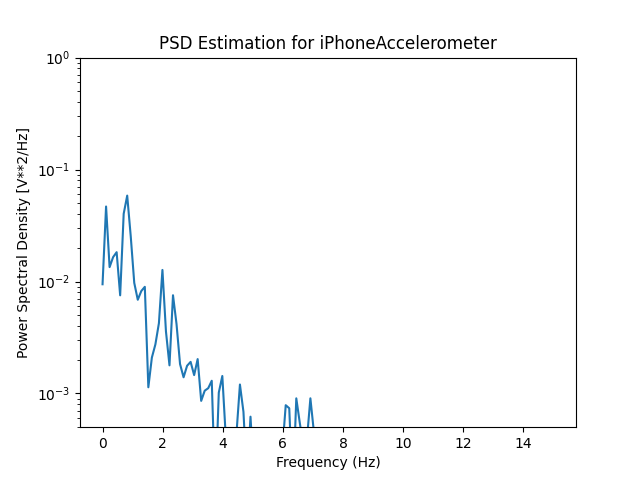
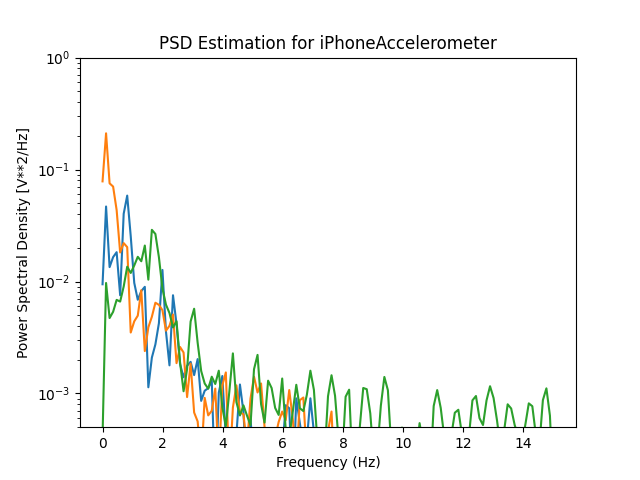
user velocity graphs and code ready for report

Changed region(s): [[0.1562, 0.4688, 0.625, 0.9062], [0.6562, 0.8125, 0.875, 0.9062], [0.1562, 0.2812, 0.1875, 0.5]]

diff --git a/dev/velocity_estimation/user_velocity.py b/dev/velocity_estimation/user_velocity.py
@@ -36,21 +36,24 @@ def power_spectral_density(sensor_array, sensor):
     """
     Plot the PSD of the sensor data to estimate filter with cutoff freq.
     """
+    xyz = ["Time", "X", "Y", "Z"]
+    plt.figure()
     # Calculate PSD using Welch's PSD Algorithm
-    sensor_overlap = (sensor_array.shape[1]/2)
-    f_sample = 30 # 30 Hz sampling freq TODO: change to 100 Hz for final experiment
-    freq, p_density = welch(sensor_array[0:803, 1], f_sample, window='hann', noverlap=sensor_overlap)
-    print("Calculated PSD for " + sensor + ".")
+    for i in range(len(xyz)):
+        if (i!=0):
+            sensor_overlap = (sensor_array.shape[1]/2)
+            f_sample = 30 # 30 Hz sampling freq TODO: change to 100 Hz for final experiment
+            freq, p_density = welch(sensor_array[0:sensor_array.shape[0], i], f_sample, window='hann', noverlap=sensor_overlap)
+            print("Calculated PSD for " + sensor + " " + xyz[i] + " axis" + ".")
 
-    # Plot the PSD and save to results
-    plt.semilogy(freq, p_density)
-    plt.ylim([0.5e-3, 1])
-    plt.xlabel('Frequency (Hz)')
-    plt.ylabel('Power Spectral Density [V**2/Hz]')
-    plt.title("PSD Estimation for " + sensor)
-    plt.show()
-    plt.savefig(get_results_directory() + "/" + sensor + "_PSD.png")
-    print("Saved PSD to results.")
+            # Plot the PSD and save to results
+            plt.semilogy(freq, p_density)
+            plt.ylim([0.5e-3, 1])
+            plt.xlabel('Frequency (Hz)')
+            plt.ylabel('Power Spectral Density [V**2/Hz]')
+            plt.title("PSD Estimation for " + sensor)
+            plt.savefig(get_results_directory() + "/" + sensor + "_PSD.png")
+            print("Saved PSD to results.")
 
 #######################################
 ##                                   ##
